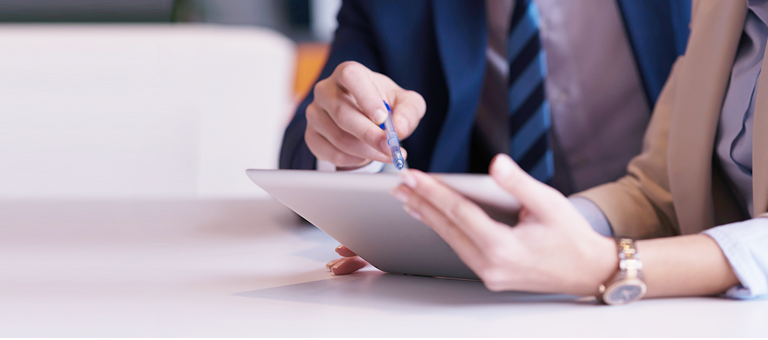
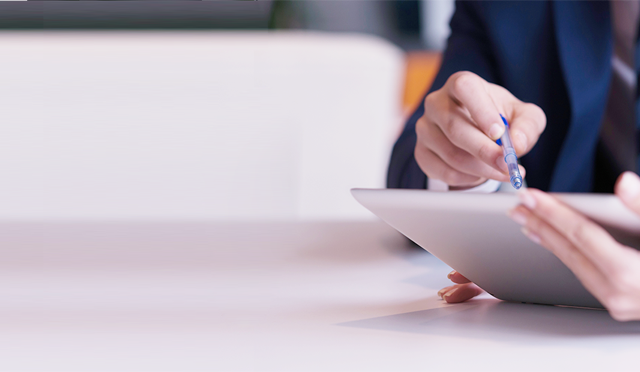
120117
commit

diff --git a/css/assets/wac_ver1.css b/css/assets/wac_ver1.css
@@ -274,6 +274,7 @@ button:focus{border:1px dotted #e1e1e1!important;}
     .container .access-list li img{width: 100%;}
     .container .access-list li dl dt,
     .container .access-list li dl dd{text-align: center;margin-top: 25px;}
+    .container .access-list li:nth-child(4) dl dt{margin-top: 36px;}
         .container .access-list li dl dt{font-weight:900;}
         .container .access-list li dl dd .modal-dialog{top:45%; left:50%; margin:-200px 0 0 -250px;}
         .container .access-list li dl dd .modal-dialog .modal-content{width:100%; max-width: 550px; background: #fff; padding: 35px;}
@@ -1119,7 +1120,7 @@ button:focus{border:1px dotted #e1e1e1!important;}
      .guide-version-wrap{margin-top: 28px;}
 
 
-     .wac-guide .lnb.scroll-fixed, .wac-guide .lnb{position: absolute; width: 100%; max-width: 640px; z-index: 999; top: 0; left: 0; display: block;}
+     .wac-guide .lnb.scroll-fixed, .wac-guide .lnb{position: absolute; width: 100%; max-width: 640px; z-index: 999; top: 0; left: 0;}
         .wac-guide .container .lnb .depth1-menu {margin: 0;}
         .wac-guide .container .lnb .depth1-menu > a{font-size: 25px; color: #202020;}
         .wac-guide .container .lnb .depth2-menu {padding-left: 20px; background-color: #f7f7f7;}
@@ -1171,12 +1172,15 @@ button:focus{border:1px dotted #e1e1e1!important;}
     /* ******************
      *    index.html    *
      ********************/
+     .container .m-visual .m-img {background: url('../../img/m-visual-768.png') no-repeat top center; background-size: cover; width: 100%; height: 100%; position: absolute; top:-2px;}
+
      .container .m-visual h2{font-size: 76px;}
        .container .m-visual p span{top:20px; left: 0;}
+       .container .m-visual p strong{margin-top: 92px;}
      /* .index .container h3 {font-size: 3.9rem;} */
 
-     .index .container .info-access{height:1500px;}
-     .index .container .access-list {width: 100%; max-width: 590px; margin: 0 auto;}
+     .index .container .info-access{height:auto; margin-bottom: 100px;}
+     .index .container .access-list {width: 100%; max-width: 405px; margin: 0 auto; margin-top: 37px;}
      .index .container .access-list li{margin: 17px; max-width:160px; width: 40%;}
 
      .index #whyWac {width:90%; margin:0 auto; padding:0;}
@@ -1221,14 +1225,13 @@ button:focus{border:1px dotted #e1e1e1!important;}
 
 @media (max-width:640px){
 
-  .gnb .device li a{font-size: 18px; padding-top: 10px;}
-
-
+  .gnb .device li a{font-size: 17px; padding-top: 10px;}
 
     /* ******************
     *  wac-focus.html  *
     ********************/
-    .ui-focus .m-visual{height: auto; background:url(../../img/focus-mVisual-mobile.png) no-repeat;}
+    .m-visual{height: auto;}
+    .ui-focus .m-visual{background:url(../../img/focus-mVisual-mobile.png) no-repeat;}
     .ui-focus .m-visual h2{font-size: 48px; letter-spacing: -5px;}
     .ui-focus .m-visual ul{width: 100%; max-width: 100%;}
     .ui-focus .m-visual ul
@@ -1242,19 +1245,22 @@ button:focus{border:1px dotted #e1e1e1!important;}
      .mobile-block{display: block;}
      .index .container h3{font-size: 35px !important; text-align: center; line-height: 1.3;}
 
-     .container .m-visual{height:800px;}
-     .container .m-visual > img{top:0;}
+     /* .container .m-visual .m-img {background: url('../../img/m-visual-425.png') no-repeat; background-size: cover; width: 100%; height: 100%; position: absolute; top:-2px;} */
+    .container .m-visual p strong{font-size: 20px; margin-top: 60px;}
 
      .index .container .info-access {height:unset;}
      .index .container .info-access p{font-size:15px!important;}
 
         .index .container .access-list li i{padding: 0;}
-        .btn-lotte{widows: 145px; height:40px; font-size: 15px;}
+        .container .info-access .btn-lotte{width: 122px; height:40px; font-size: 15px; padding: 15px 4px;}
             .container .access-list li dl dt{margin-top: 10px;}
+            .container .access-list li:nth-child(4) dl dt{margin-top: 18px;}
+
             .container .access-list li dl dd .modal-dialog{width:95%; top:0; left:0;margin: 0 auto;}
 
+
     .index #whyWac{padding-top: 100px; height: unset;}
-        .index #whyWac dl dt{font-size: 18px;}
+        .index #whyWac dl dt{font-size: 17px;}
         .index #whyWac dl dd{width:90%; margin:0 auto; padding: 0; font-size: 14px;}
 
     .index #wacGuideLine{padding-top: 100px; height: unset; text-align: left;}
@@ -1315,7 +1321,7 @@ button:focus{border:1px dotted #e1e1e1!important;}
      *    index.html    *
      ********************/
     .index .container .m-visual h2{font-size: 46px;}
-    .index .container .m-visual {height:750px;}
+    .index .container .m-visual {height:450px;}
 
     /* *********************
      *    pc_guide.html    *
@@ -1333,9 +1339,10 @@ button:focus{border:1px dotted #e1e1e1!important;}
     /* ******************
      *    index.html    *
      ********************/
-     .index .container .m-visual h2{text-align: center; width: 100%;font-size: 45px;}
-     .index .container .m-visual p{font-size: 18px;}
-     .index .container .m-visual {height:750px;}
+     .index .container .m-visual h2{text-align: center; width: 100%; font-size: 56px;}
+     .index .container .m-visual p, .container .m-visual p strong{font-size: 18px; text-align: center;}
+     .index .container .m-visual p span{top: 20px; left: 0; right: 0;}
+
 
      .index .container .access-list li{margin: 10px;}
 
